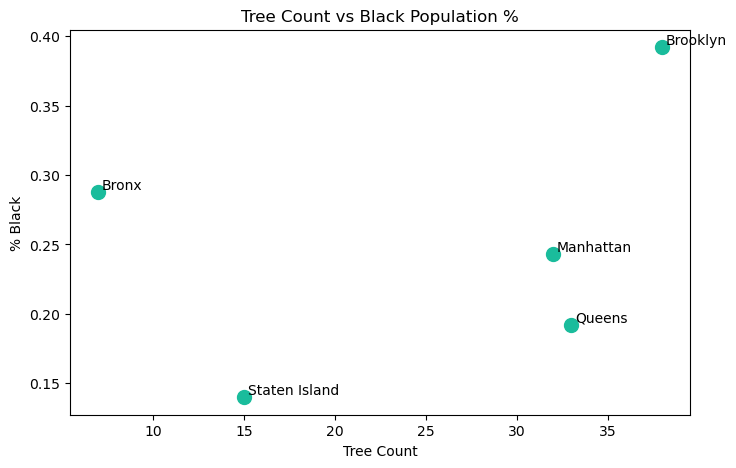
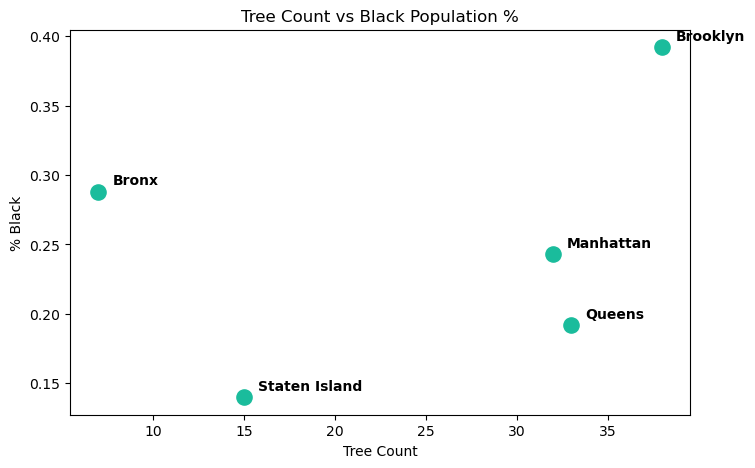
labeled boroughs

diff --git a/visualizations.py b/visualizations.py
@@ -47,17 +47,29 @@ def plot_scatter(data, xlabel, ylabel, title, filename):
     black_pct = [row[2] for row in data]
 
     plt.figure(figsize=(8,5))
-    plt.scatter(trees, black_pct, color="#1abc9c", s=100)
+    plt.scatter(trees, black_pct, color="#1abc9c", s=120)
+
+    # Add labels with better spacing
     for i, b in enumerate(boroughs):
-        plt.text(trees[i]+0.2, black_pct[i]+0.002, b)  # adjust label slightly
+        plt.annotate(
+            b,
+            (trees[i], black_pct[i]),
+            textcoords="offset points",
+            xytext=(10, 5),     # <-- offset right and up
+            ha='left',
+            fontsize=10,
+            weight='bold'
+        )
 
     plt.xlabel(xlabel)
     plt.ylabel(ylabel)
     plt.title(title)
+
     save_path = os.path.join(PROJECT_DIR, filename)
     plt.savefig(save_path, bbox_inches='tight')
     plt.close()
     print(f"Saved {filename} in {PROJECT_DIR}")
+
 
 def run_all_visualizations():
     # Trees
